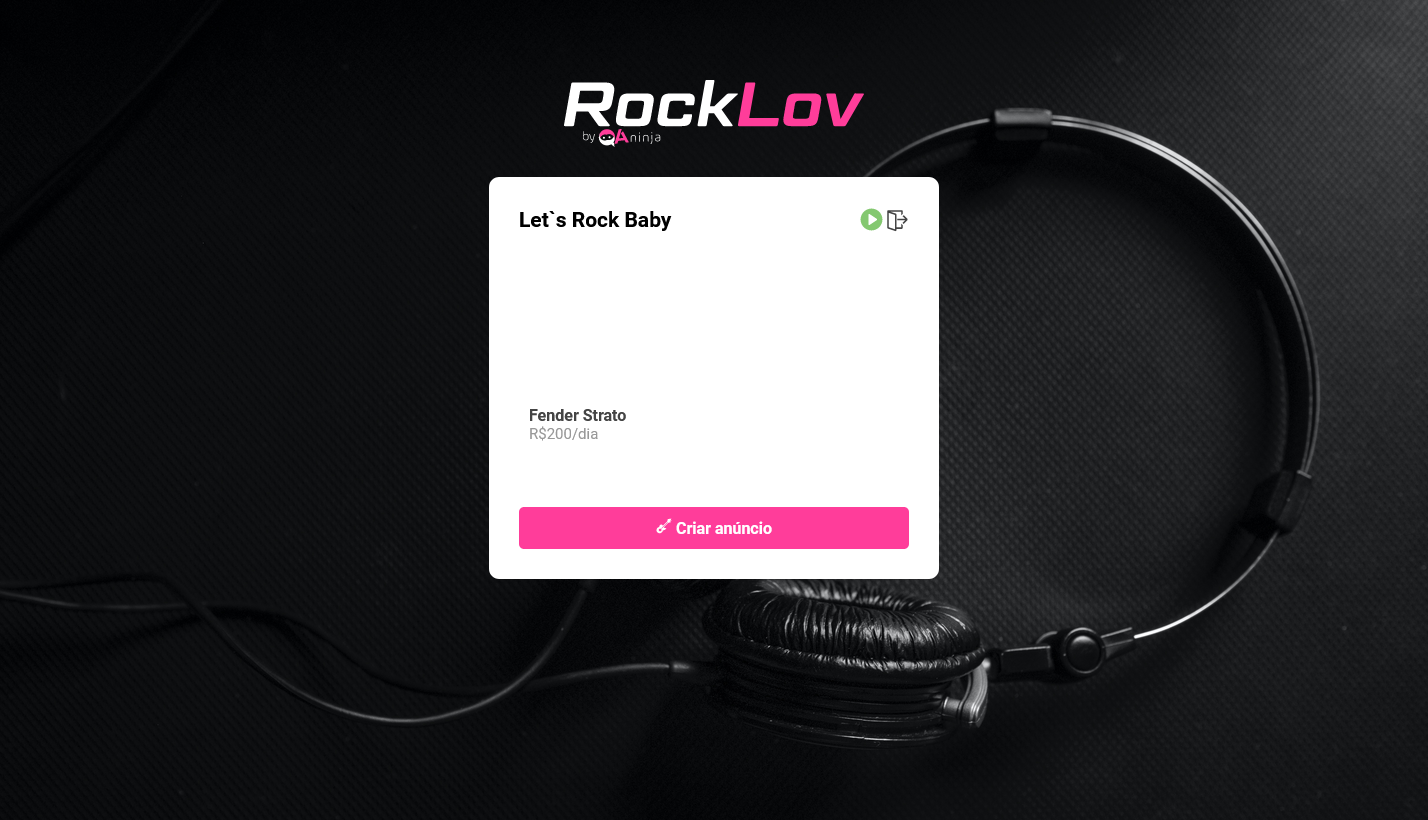
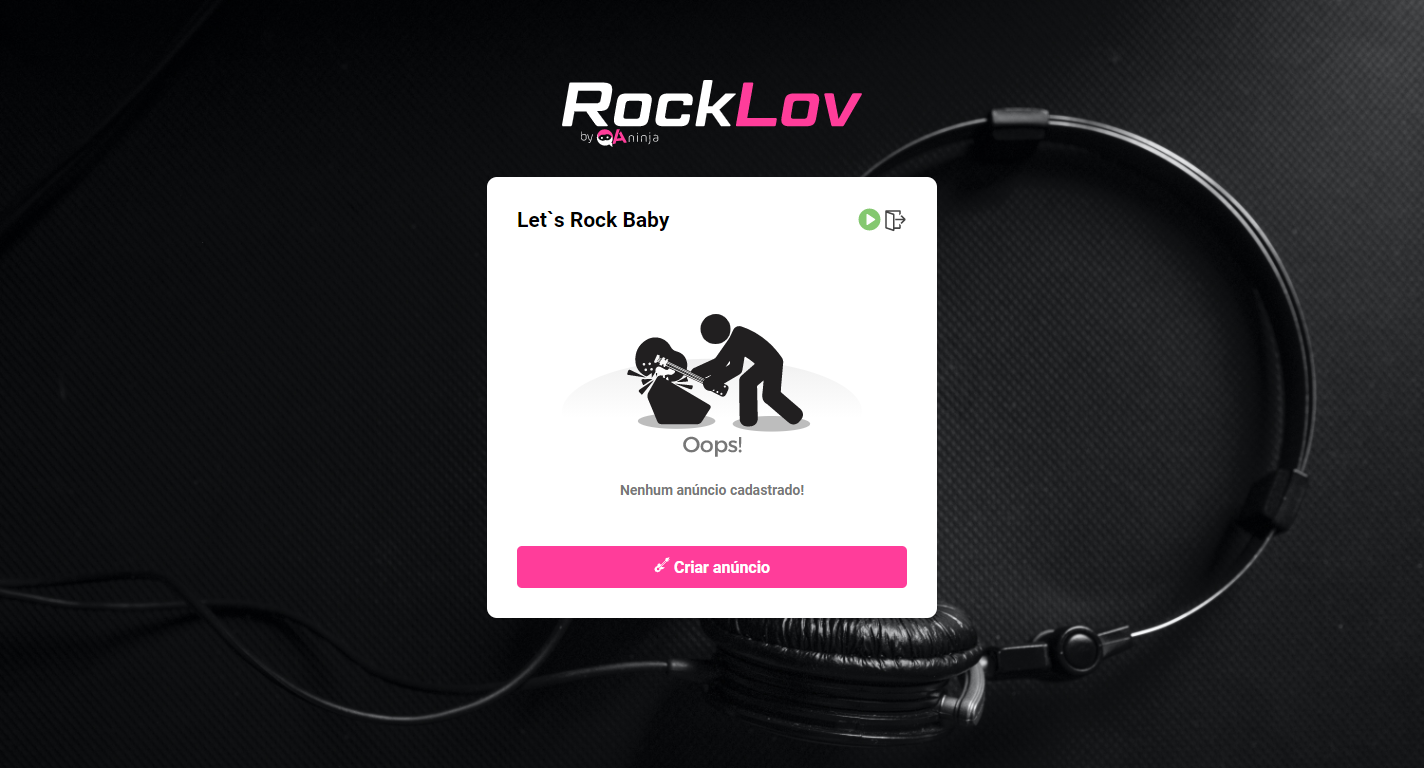
Removendo um anúncio/equipo

diff --git a/rocklov/web/features/step_definitions/anuncios_steps.rb b/rocklov/web/features/step_definitions/anuncios_steps.rb
@@ -34,26 +34,29 @@ end
 Dado('que eu tenha um anuncio indesejado') do |table|
 
   user_id = page.execute_script("return localStorage.getItem('user')")
+  thumbnail = File.open(File.join(Dir.pwd, "features/support/fixtures/images", table.rows_hash[:thumb]), "rb")
 
-  thumbnail = File.open(File.join(Dir.pwd, "features/support/fixtures/images", table.rows_hash), "rb")
-
-  equipo = [
+  @equipo = {
     thumbnail: thumbnail,
     name: table.rows_hash[:nome],
     category: table.rows_hash[:categoria],
-    price: table.rows_hash[:preco]
-  ]
-  EquiposService.create.new(equipo, user_id)
+    price: table.rows_hash[:preco],
+  }
+  EquiposService.new.create(@equipo, user_id)
+
+  # refresh (F5)
+  visit current_path
 end
 
 Quando('eu solicito a exclusão desse item') do
-  pending # Write code here that turns the phrase above into concrete actions
+  @dash_page.request_removal(@equipo[:name])
+  sleep 1 #think time
 end
 
 Quando('confirmo a exclusão') do
-  pending # Write code here that turns the phrase above into concrete actions
+  @dash_page.confirm_remove
 end
 
 Entao('nao devo ver esse item no meu Dashboard') do
-  pending # Write code here that turns the phrase above into concrete actions
+  expect(@dash_page.has_no_equipo?(@equipo[:name])).to be true
 end

diff --git a/rocklov/web/features/support/views/pages/dash_page.rb b/rocklov/web/features/support/views/pages/dash_page.rb
@@ -10,8 +10,20 @@ class DashPage
     return find(".equipo-list")
   end
 
+  def has_no_equipo?(name)
+    return page.has_no_css?(".equipo-list li", text: name)
+  end
+
   def on_dash?
     return page.has_css?(".dashboard")
   end
 
+  def request_removal(name)
+    equipo = find(".equipo-list li", text: name)
+    equipo.find(".delete-icon").click
+  end
+
+  def confirm_remove
+    click_on "Sim"
+  end
 end

diff --git a/rocklov/web/features/support/services/equipos_service.rb b/rocklov/web/features/support/services/equipos_service.rb
@@ -3,9 +3,12 @@ require_relative "base_service"
 class EquiposService < BaseService
 
   def create(equipo, user_id)
+
+    payload = equipo
+
     self.class.post(
       "/equipos",
-      body:payload,
+      body: payload,
       headers: {
         "user_id": user_id
       },
